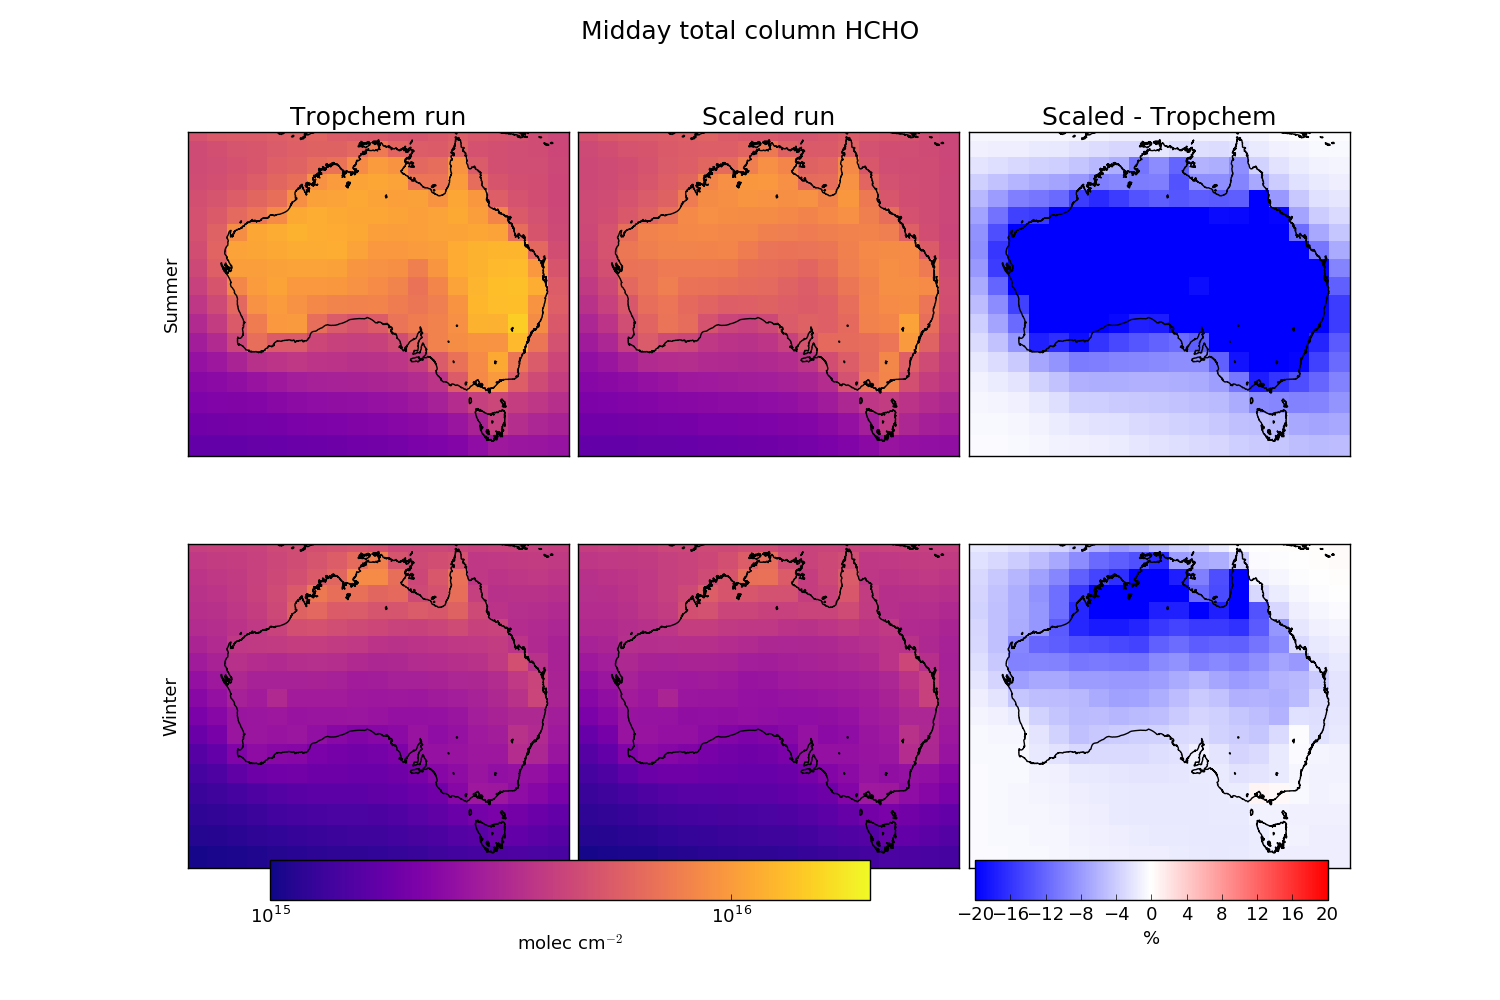
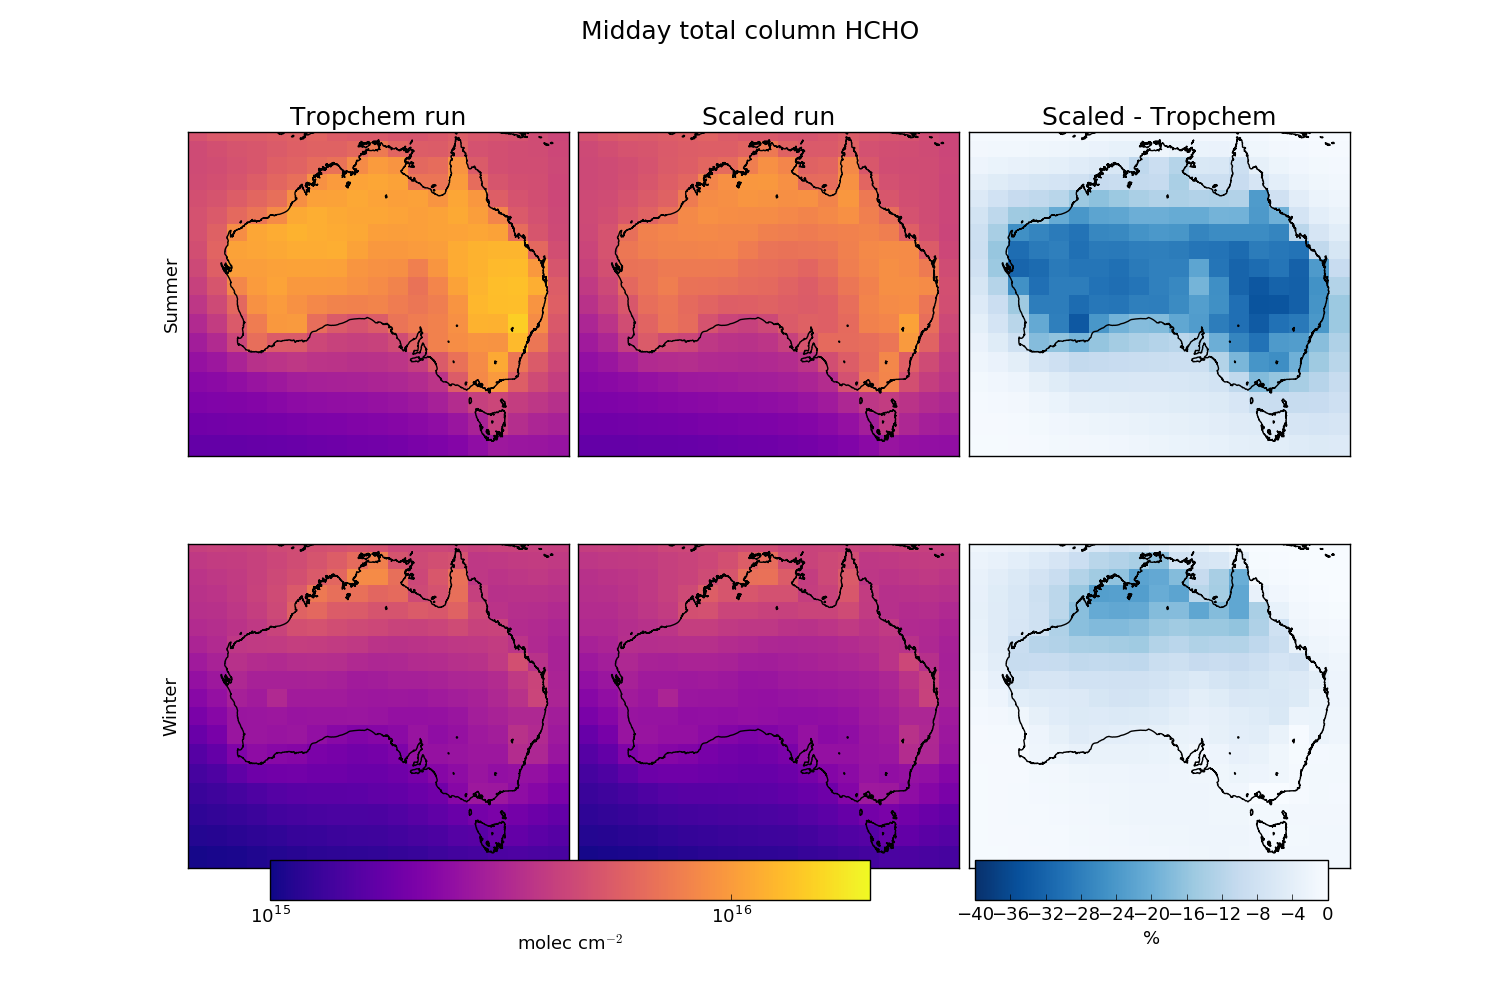
updated seasonal reduction maps

Changed region(s): [[0.644, 0.124, 0.92, 0.465], [0.644, 0.527, 0.8893, 0.775], [0.644, 0.837, 0.8893, 0.93]]

diff --git a/chapter_3_isop.py b/chapter_3_isop.py
@@ -1342,7 +1342,7 @@ def seasonal_differences():
     vmins = [1e15, 20, 0.01]
     vmaxs = [2e16, 50, 1]
     difflims = [[-3.5e15, 3.5e15], [-4,0], [-0.05,0.05]]
-    reldifflims = [[-20,20],[-10,0],[-10,10]]
+    reldifflims = [[-40,0],[-10,0],[-10,10]]
     units = ['molec cm$^{-2}$', 'ppbv', 'ppbv']
     linears= [False,True,False]
     stitles = ['Midday total column HCHO','Midday surface ozone','Midday surface NO$_x$']
@@ -1364,7 +1364,7 @@ def seasonal_differences():
         vmin=vmins[i]; vmax=vmaxs[i]
         #dmin=difflims[i][0]; dmax=difflims[i][1]
         dmin=reldifflims[i][0]; dmax=reldifflims[i][1]
-        diffcmap=['bwr','Blues_r'][i==1]
+        diffcmap=['bwr','Blues_r'][i<2]
         plt.subplot(2,3,1)
         pp.createmap(trop_summers[i],lats,lons,aus=True, vmin=vmin,vmax=vmax, 
                      colorbar=False, clabel=units[i], linear=linears[i], 
